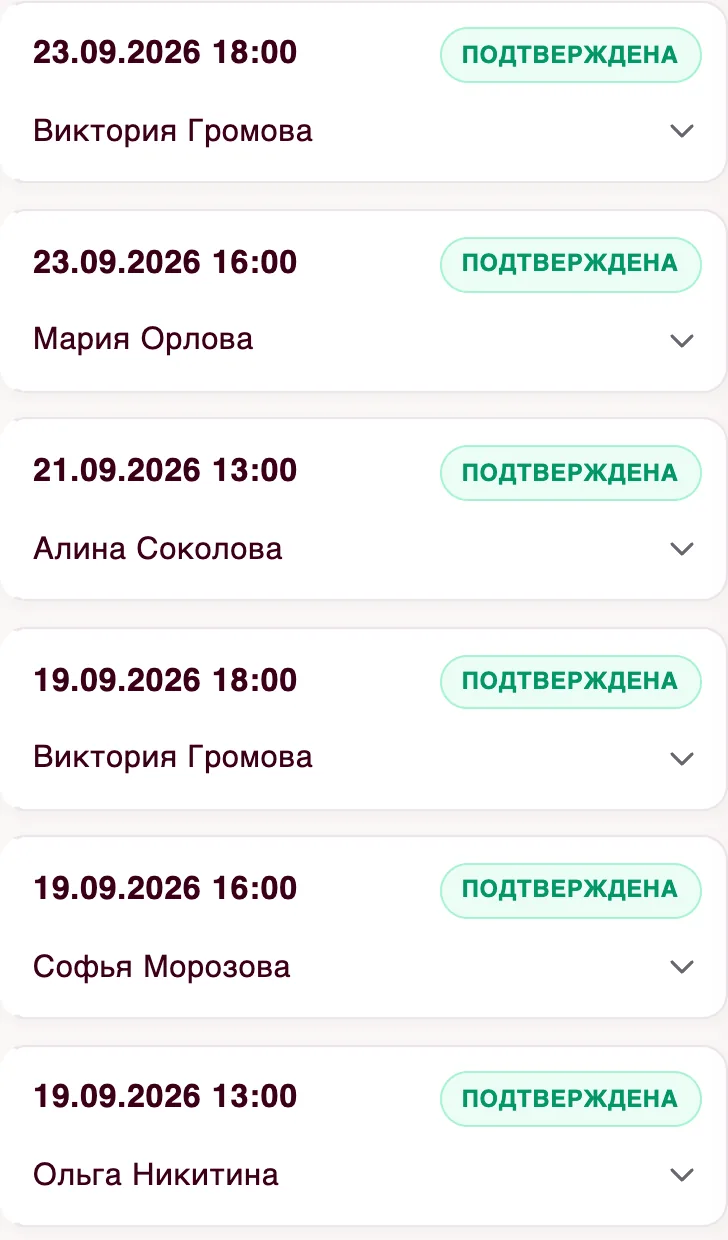
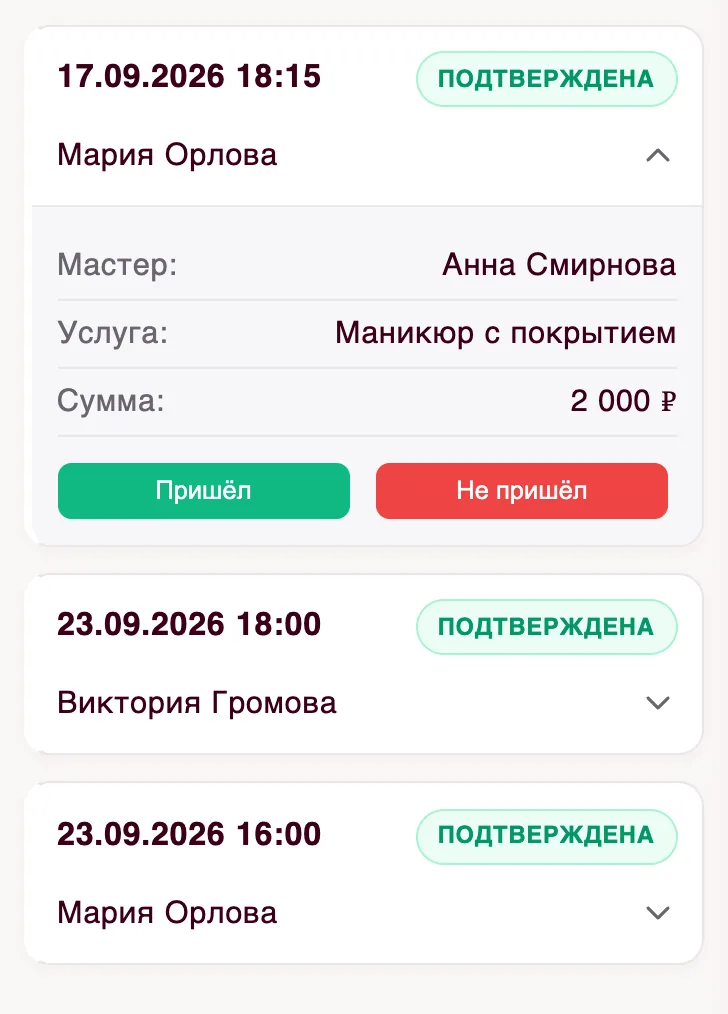
fix(лендинг мастеров): кадры кабинета сняты на ширине телефона, «Пришёл/Не пришёл» видны; у частного мастера запись — «мастер подтвердит»

diff --git a/static/src/css/master-landing.css b/static/src/css/master-landing.css
@@ -197,7 +197,10 @@
 }
 
 /* Скриншоты с телефона не растягиваем на всю ширину десктопа */
-.ml-shot[width="780"], .ml-shot[width="728"] { max-width: 22rem; }
+/* Все кадры кабинета сняты на ширине телефона: на широком экране их не
+   растягиваем, а высоту не ограничиваем — иначе object-fit ужимал длинный
+   кадр вместе с текстом, и цифры переставали читаться. */
+.ml-shot[width="780"], .ml-shot[width="728"] { max-width: 22rem; max-height: none; }
 
 .ml-chat {
     width: 100%;

diff --git a/app/web/pages/master_landing.py b/app/web/pages/master_landing.py
@@ -76,18 +76,18 @@ _PAINS = [
 _TOUR = [
     ("booking-link", "Клиент записывается сам по ссылке",
      "Ставите ссылку или QR-код в шапку соцсетей. Клиент выбирает услугу и "
-     "свободное время — без звонков и переписки.", 780, 890),
+     "свободное время — без звонков и переписки.", 780, 954),
     (None, "Напоминание перед визитом",
      "Приходит клиенту в Telegram, MAX, ВКонтакте или на почту — туда, где он "
      "подключил уведомления.", 0, 0),
     ("records", "Все записи — в одном списке",
      "Подтверждаете запись, отмечаете «Пришёл» или «Не пришёл». Удобно "
-     "прямо с телефона.", 728, 1240),
+     "прямо с телефона.", 728, 1014),
     ("client-card", "Карточка клиента",
      "История визитов, сколько потратил и заметки. «Аллергия на акриловую "
-     "пудру» больше не потеряется в переписке.", 1400, 1693),
+     "пудру» больше не потеряется в переписке.", 780, 2044),
     ("overview", "Выручка и день на одном экране",
-     "Сколько заработали за неделю и кто придёт сегодня.", 1600, 474),
+     "Сколько заработали за неделю и кто придёт сегодня.", 728, 1922),
 ]
 
 _INCLUDED = [

diff --git a/tests/test_master_landing.py b/tests/test_master_landing.py
@@ -160,3 +160,28 @@ async def test_client_card_renders_for_owner(client, db_session):
     salon_id = r.json()["salon_id"]
     r = await client.get(f"/business/clients/{data['user']['id'] if 'user' in data else 1}?salon_id={salon_id}")
     assert r.status_code == 200
+
+
+async def test_guest_booking_speaks_of_master_for_solo(client, db_session):
+    """У частного мастера страница записи не говорит «салон подтвердит»."""
+    data = await register_user(client, "+79997771006")
+    client.cookies.set("access_token", data["access_token"])
+    r = await client.post("/api/v1/business/apply", data={
+        "salon_name": "Анна Смирнова", "phone": "+79997771006",
+        "offer_accepted": "1", "pd_consent": "1", "plan": "lite", "for_master": "1",
+    })
+    salon_id = r.json()["salon_id"]
+    from app.models.models import SalonModerationStatus
+    async with db_session() as db:
+        salon = await db.get(Salon, salon_id)
+        salon.moderation_status = SalonModerationStatus.APPROVED
+        salon.guest_booking_enabled = True
+        from datetime import datetime, timezone
+        salon.published_at = datetime.now(timezone.utc)
+        master = (await db.execute(select(Master).where(Master.salon_id == salon_id))).scalar_one()
+        from app.models.models import Service
+        db.add(Service(master_id=master.id, name="Маникюр", price=2000, duration_minutes=90))
+        await db.commit()
+    r = await client.get(f"/book/{salon_id}")
+    assert "мастер подтвердит запись" in r.text, r.text[:500]
+    assert "салон подтвердит" not in r.text

diff --git a/app/web/pages/guest_booking.py b/app/web/pages/guest_booking.py
@@ -143,6 +143,12 @@ async def render_guest_booking_page(db, salon_id: int) -> str:
         select(Master).where(Master.salon_id == salon_id, Master.is_active == True)
     )).scalars().all()
 
+    # Частный мастер — «салон» из одного человека, который сам им владеет.
+    # Ему «салон подтвердит запись» звучит странно: клиент идёт к мастеру.
+    solo = len(masters) == 1 and masters[0].user_id == salon.creator_id
+    confirmer = "мастер" if solo else "салон"
+    title = f"Запись к «{e(salon.name)}»" if solo else f"Запись в «{e(salon.name)}»"
+
     data = []
     for m in masters:
         muser = (await db.execute(select(User).where(User.id == m.user_id))).scalar_one_or_none()
@@ -176,8 +182,8 @@ async def render_guest_booking_page(db, salon_id: int) -> str:
     masters_json = ejson(data)
 
     inner = f"""
-        <h1 class="gb-title">Запись в «{e(salon.name)}»</h1>
-        <p class="gb-sub">Без регистрации — оставьте имя и телефон, салон подтвердит запись.</p>
+        <h1 class="gb-title">{title}</h1>
+        <p class="gb-sub">Без регистрации — оставьте имя и телефон, {confirmer} подтвердит запись.</p>
 
         <div id="guest-book" data-salon-id="{salon.id}" data-masters='{masters_json}'>
 
